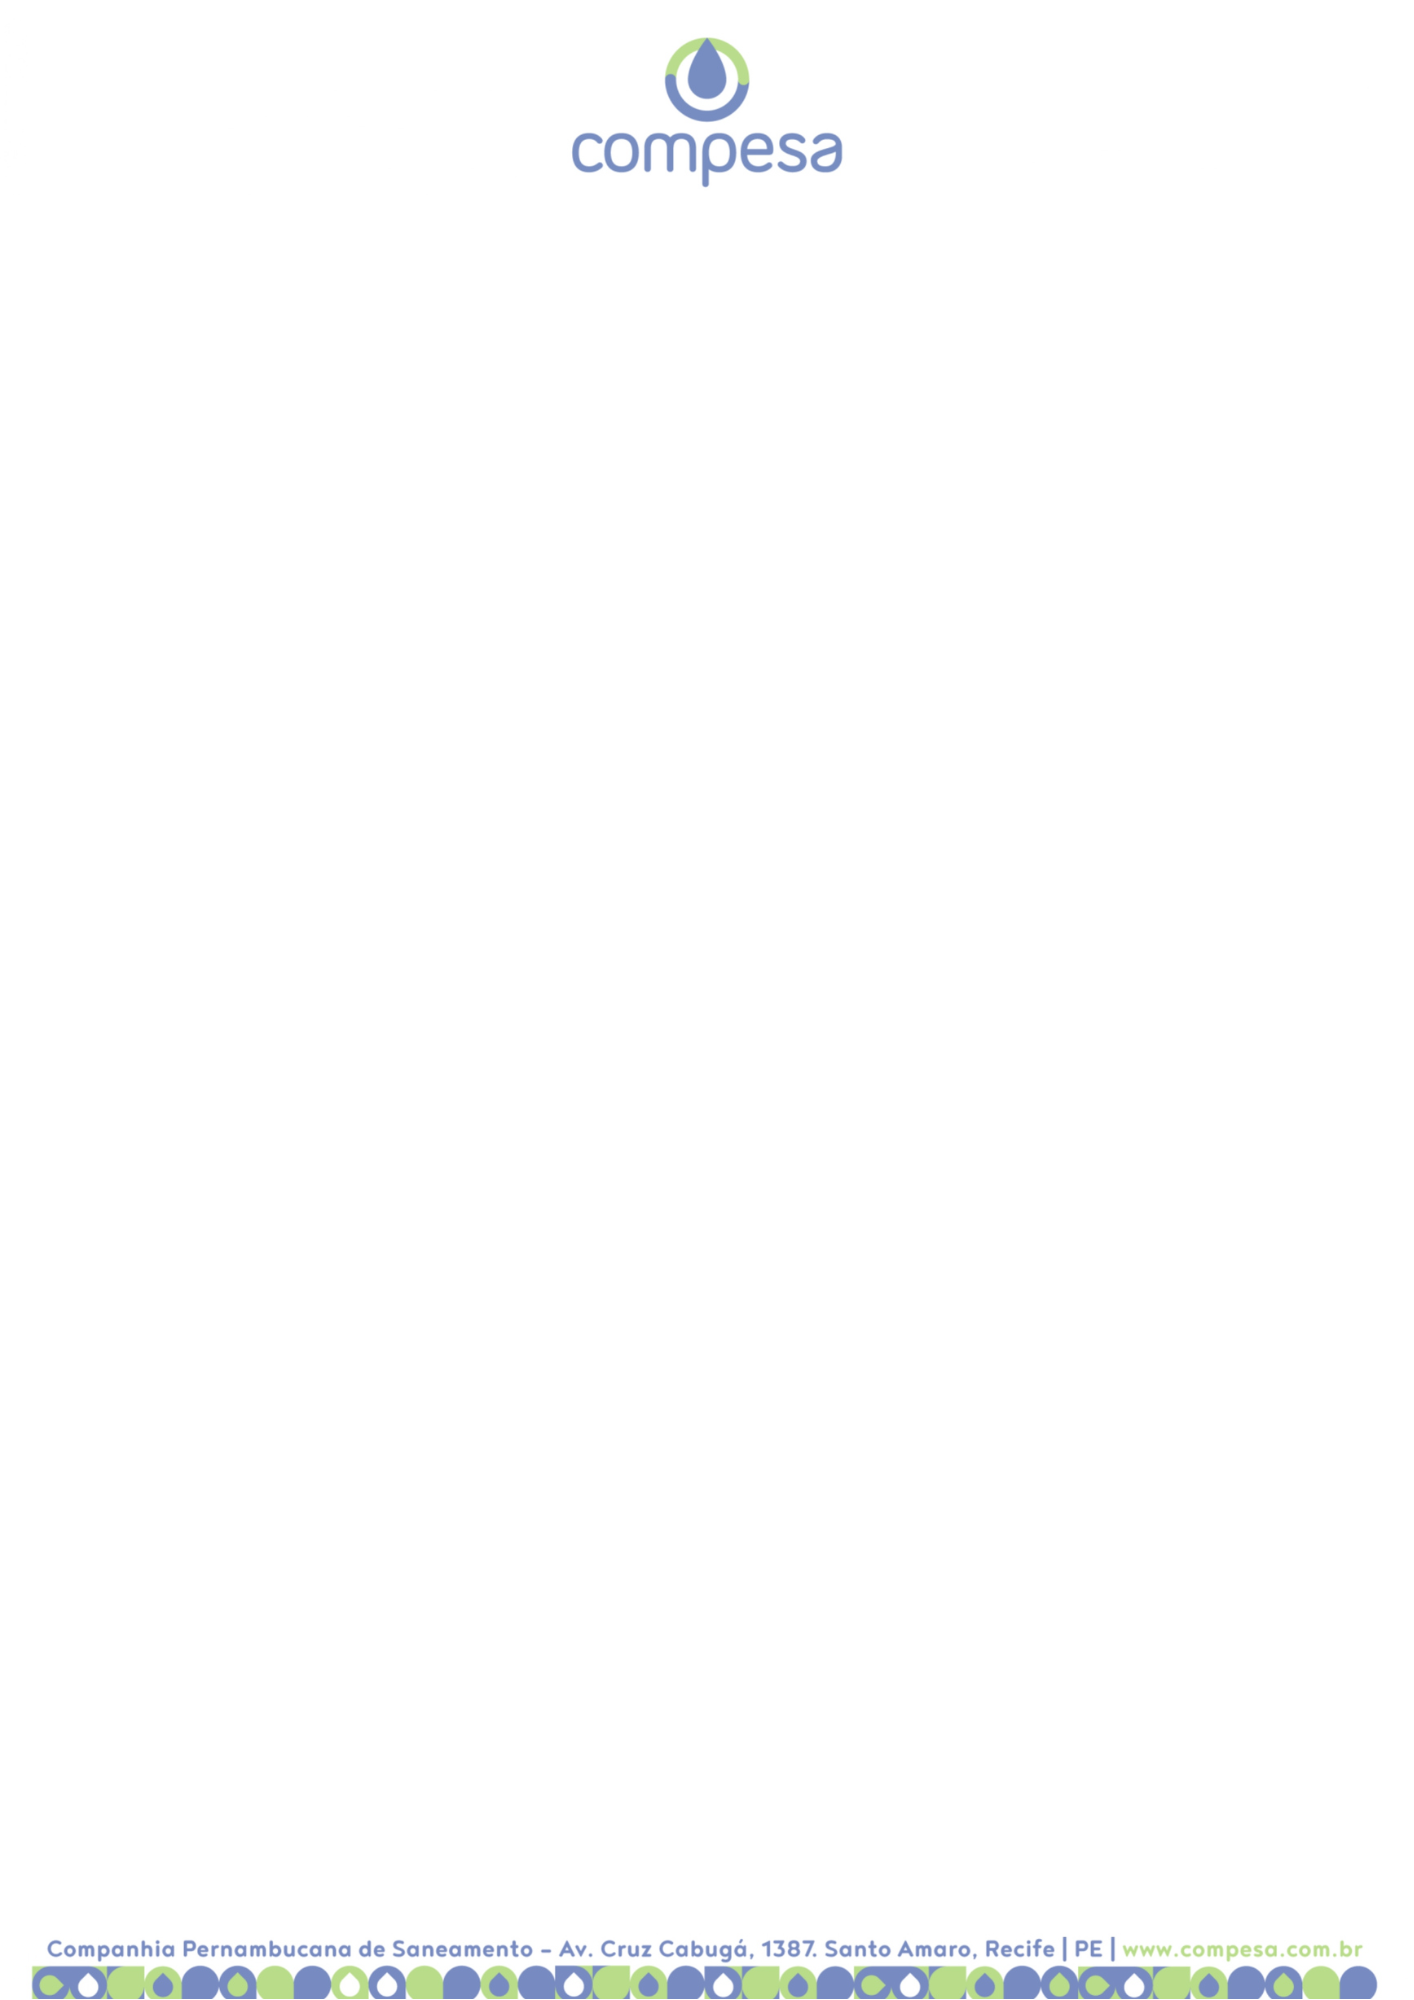
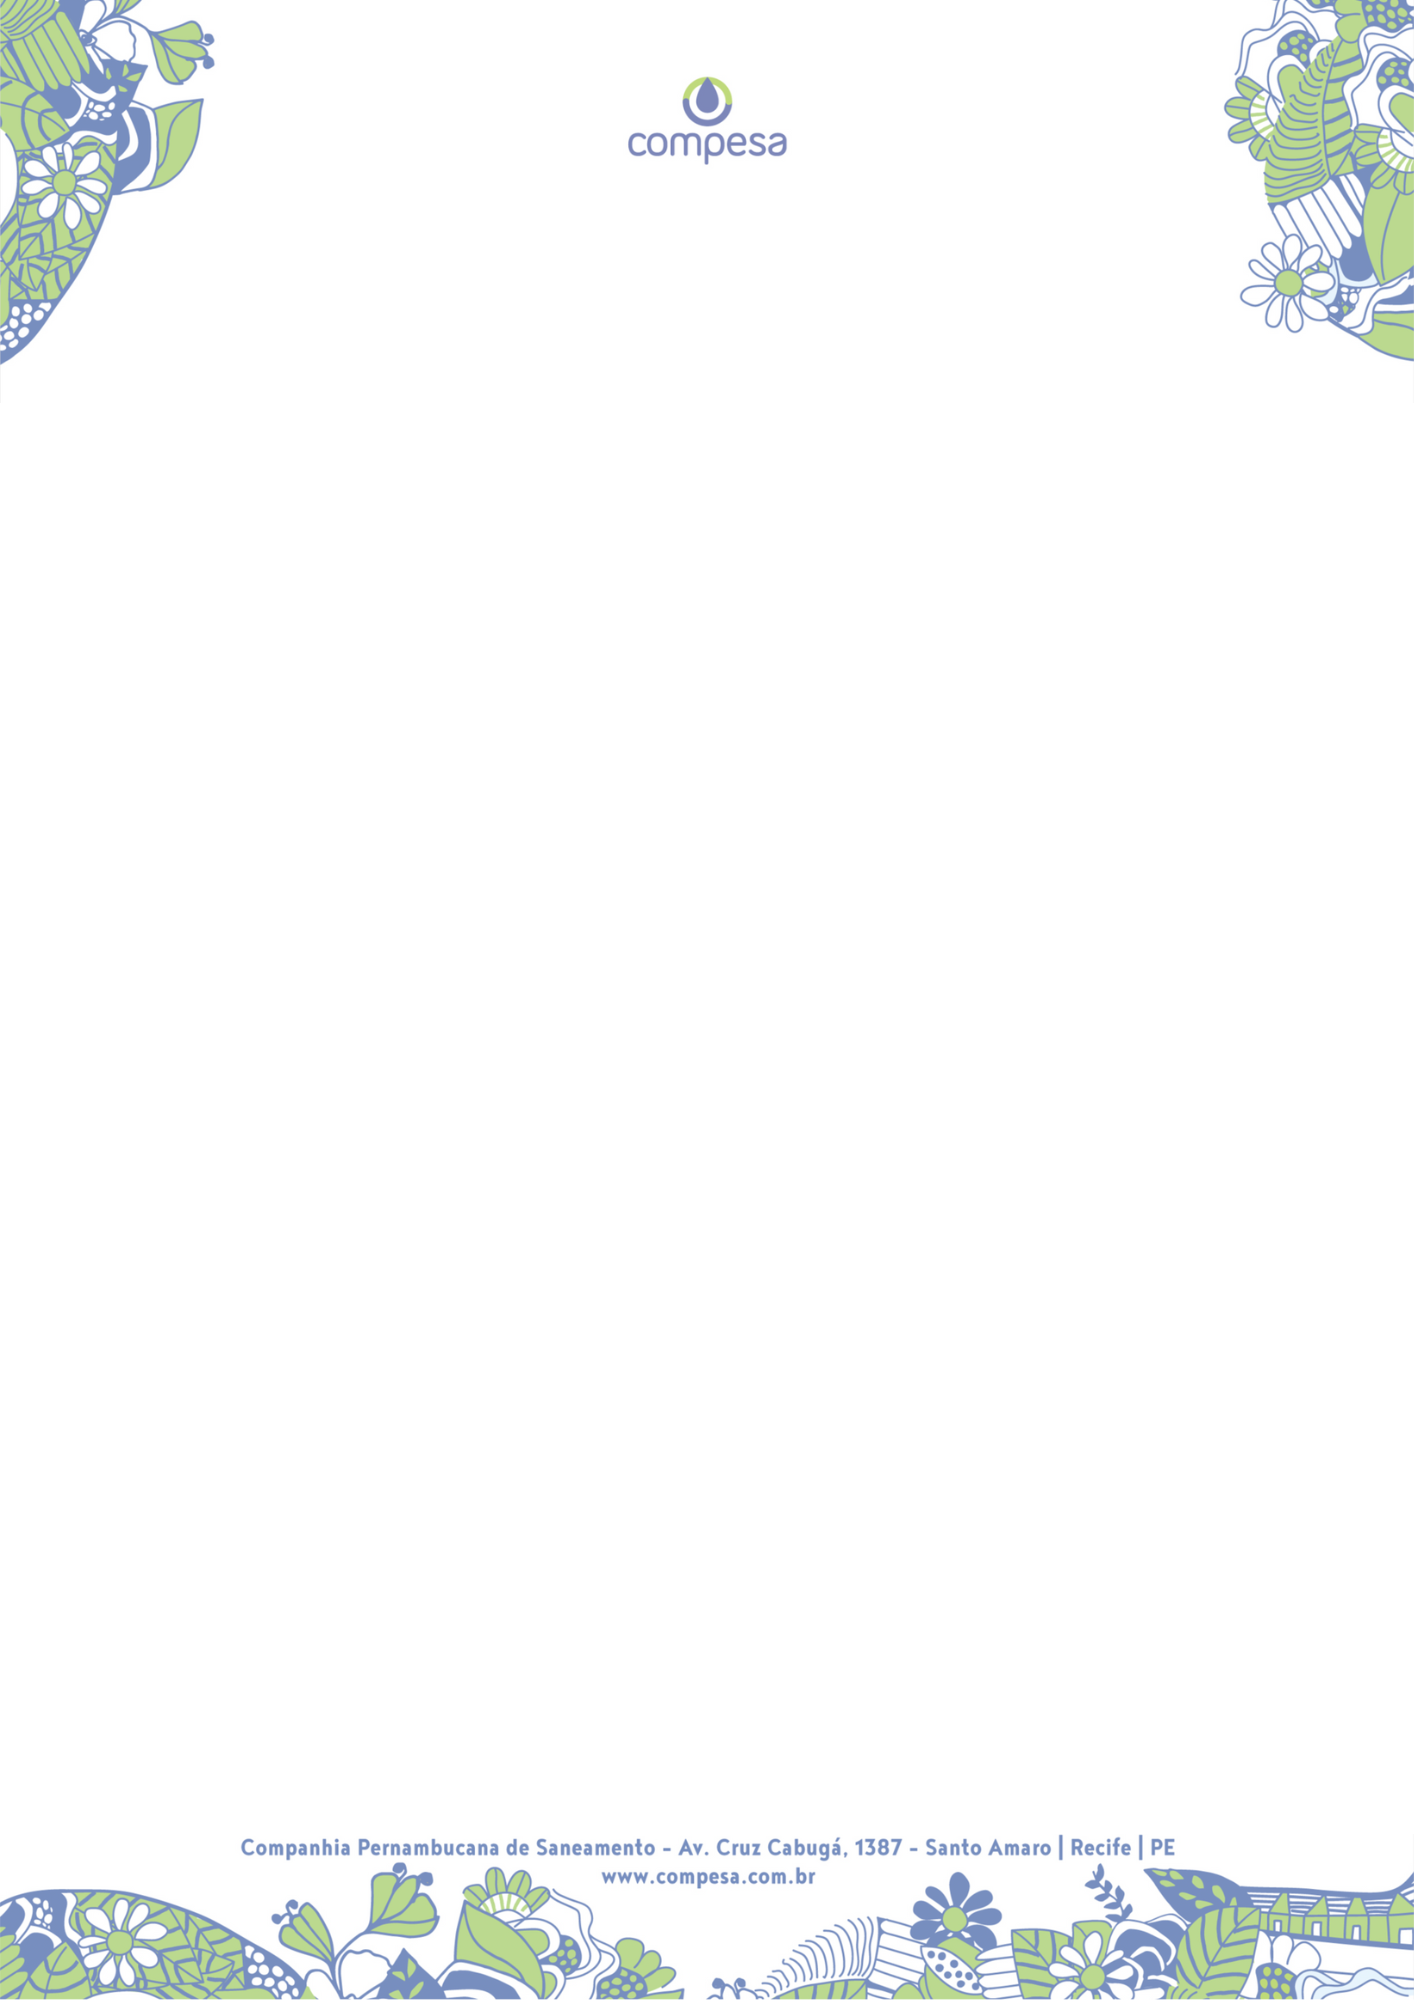
Atualização da página de fundo do relatório

diff --git a/src/paginas/capa.py b/src/paginas/capa.py
@@ -23,7 +23,7 @@ def gerar_capa(canvas, barragem):
 
     # A imagem é adicionada ao canvas na posição (0, 0)
     # com uma largura e altura para preencher toda a página sem margens.
-    canvas.drawImage("assets/background_cover.png", 0, 0,
+    canvas.drawImage("assets/background_page.png", 0, 0,
                      dimensoes['largura'], dimensoes['altura'])
 
     # Define o texto centralizado na página
